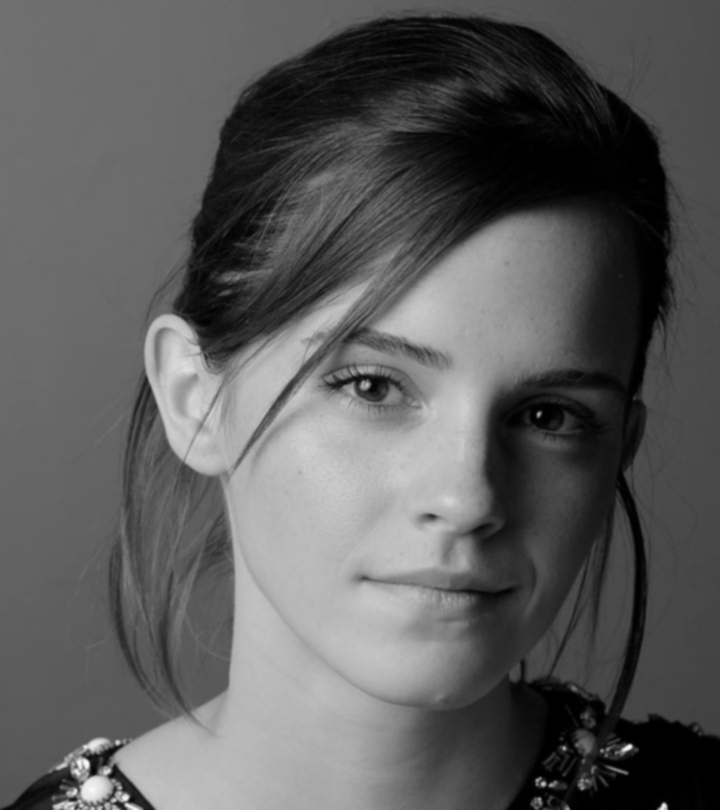
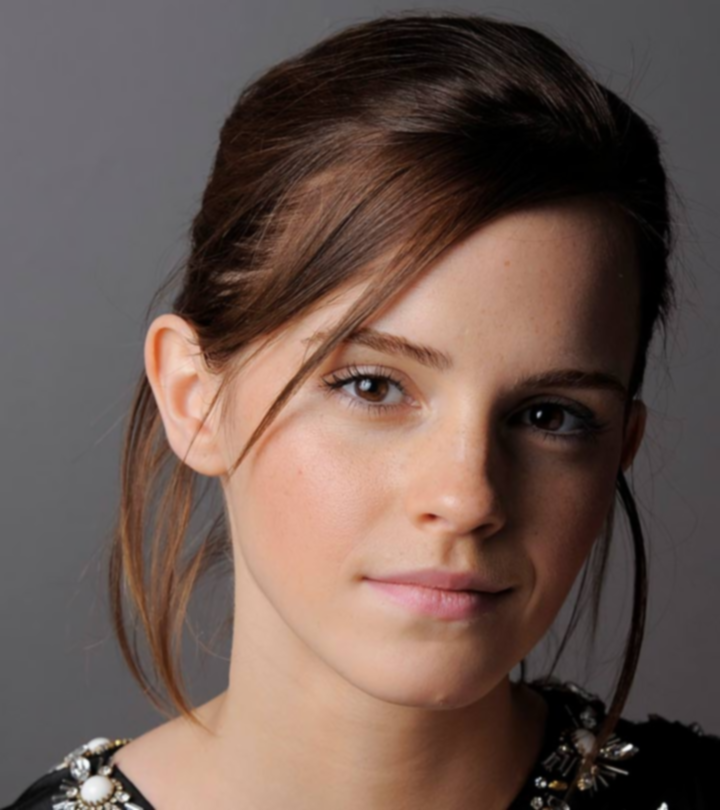
Update question 4 to apply neighborhood filters to color image (emma.jpg) by processing each channel separately

diff --git a/question4.py b/question4.py
@@ -3,24 +3,42 @@ import numpy as np
 from PIL import Image
 from scipy import ndimage
 
-def load_image_gray(path: Path) -> np.ndarray:
-    image = Image.open(path).convert("L")
+def load_image(path: Path) -> np.ndarray:
+    image = Image.open(path)
     return np.asarray(image, dtype=np.float32) / 255.0
 
 def save_image(image: np.ndarray, path: Path) -> None:
     image_uint8 = np.clip(image * 255.0, 0, 255).astype(np.uint8)
-    Image.fromarray(image_uint8, mode="L").save(path)
+    Image.fromarray(image_uint8).save(path)
 
 def mean_filter(image: np.ndarray, size: int) -> np.ndarray:
-    # size is the kernel size, e.g., 3 for 3x3
-    kernel = np.ones((size, size)) / (size * size)
-    return ndimage.convolve(image, kernel, mode='nearest')
+    if image.ndim == 2:
+        kernel = np.ones((size, size)) / (size * size)
+        return ndimage.convolve(image, kernel, mode='nearest')
+    else:  # multichannel
+        filtered = np.zeros_like(image)
+        for c in range(image.shape[2]):
+            kernel = np.ones((size, size)) / (size * size)
+            filtered[:, :, c] = ndimage.convolve(image[:, :, c], kernel, mode='nearest')
+        return filtered
 
 def median_filter(image: np.ndarray, size: int) -> np.ndarray:
-    return ndimage.median_filter(image, size=size, mode='nearest')
+    if image.ndim == 2:
+        return ndimage.median_filter(image, size=size, mode='nearest')
+    else:
+        filtered = np.zeros_like(image)
+        for c in range(image.shape[2]):
+            filtered[:, :, c] = ndimage.median_filter(image[:, :, c], size=size, mode='nearest')
+        return filtered
 
 def gaussian_filter(image: np.ndarray, sigma: float) -> np.ndarray:
-    return ndimage.gaussian_filter(image, sigma=sigma, mode='nearest')
+    if image.ndim == 2:
+        return ndimage.gaussian_filter(image, sigma=sigma, mode='nearest')
+    else:
+        filtered = np.zeros_like(image)
+        for c in range(image.shape[2]):
+            filtered[:, :, c] = ndimage.gaussian_filter(image[:, :, c], sigma=sigma, mode='nearest')
+        return filtered
 
 def main() -> None:
     root = Path(__file__).resolve().parent
@@ -28,7 +46,7 @@ def main() -> None:
     if not input_path.exists():
         raise FileNotFoundError(f"Cannot find runway image at {input_path}")
 
-    image = load_image_gray(input_path)
+    image = load_image(input_path)
 
     # Apply mean filter with 3x3 kernel
     mean_filtered = mean_filter(image, 3)
